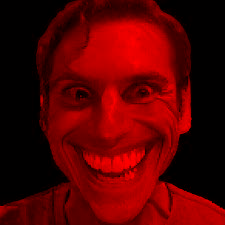
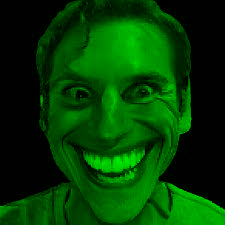
rgb

diff --git a/_notebooks/GreenConversion.java b/_notebooks/GreenConversion.java
@@ -21,13 +21,12 @@ import javax.imageio.ImageWriter;
 import javax.imageio.ImageReader;
 import javax.imageio.ImageTypeSpecifier;
 
-public class RedConversion extends ImageBlueprint {
-    
-    public RedConversion(String name, String ext) {
+public class GreenConversion extends ImageBlueprint {
+    public GreenConversion(String name, String ext) {
         super(name, ext);
     }
 
-    public RedConversion(String name) {
+    public GreenConversion(String name) {
         super(name);
     }
 
@@ -63,12 +62,12 @@ public class RedConversion extends ImageBlueprint {
         for (int i = 0; i < this.height; i++) {
             for (int j = 0; j < this.width; j++) {
                 Color col = new Color(img.getRGB(j, i));
-                int rgb = new Color(col.getRed(), 0, 0).getRGB();
+                int rgb = new Color(0, col.getGreen(), 0).getRGB();
                 img.setRGB(j, i, rgb);
 
             }
         }
-        //System.out.println("for loop done");
+        // System.out.println("for loop done");
 
         try {
             ImageIO.write(img, "png", new File(this.colorFile) );
@@ -81,7 +80,7 @@ public class RedConversion extends ImageBlueprint {
     }
 
     public static void main(String[] args) {
-        RedConversion amogus = new RedConversion("amogus", "png");
+        GreenConversion amogus = new GreenConversion("amogus", "png");
         amogus.conversion();
     }
 

diff --git a/_notebooks/BlueConversion.java b/_notebooks/BlueConversion.java
@@ -21,13 +21,12 @@ import javax.imageio.ImageWriter;
 import javax.imageio.ImageReader;
 import javax.imageio.ImageTypeSpecifier;
 
-public class RedConversion extends ImageBlueprint {
-    
-    public RedConversion(String name, String ext) {
+public class BlueConversion extends ImageBlueprint {
+    public BlueConversion(String name, String ext) {
         super(name, ext);
     }
 
-    public RedConversion(String name) {
+    public BlueConversion(String name) {
         super(name);
     }
 
@@ -63,12 +62,12 @@ public class RedConversion extends ImageBlueprint {
         for (int i = 0; i < this.height; i++) {
             for (int j = 0; j < this.width; j++) {
                 Color col = new Color(img.getRGB(j, i));
-                int rgb = new Color(col.getRed(), 0, 0).getRGB();
+                int rgb = new Color(0, 0, col.getBlue()).getRGB();
                 img.setRGB(j, i, rgb);
 
             }
         }
-        //System.out.println("for loop done");
+        // System.out.println("for loop done");
 
         try {
             ImageIO.write(img, "png", new File(this.colorFile) );
@@ -81,7 +80,7 @@ public class RedConversion extends ImageBlueprint {
     }
 
     public static void main(String[] args) {
-        RedConversion amogus = new RedConversion("amogus", "png");
+        BlueConversion amogus = new BlueConversion("amogus", "png");
         amogus.conversion();
     }
 
